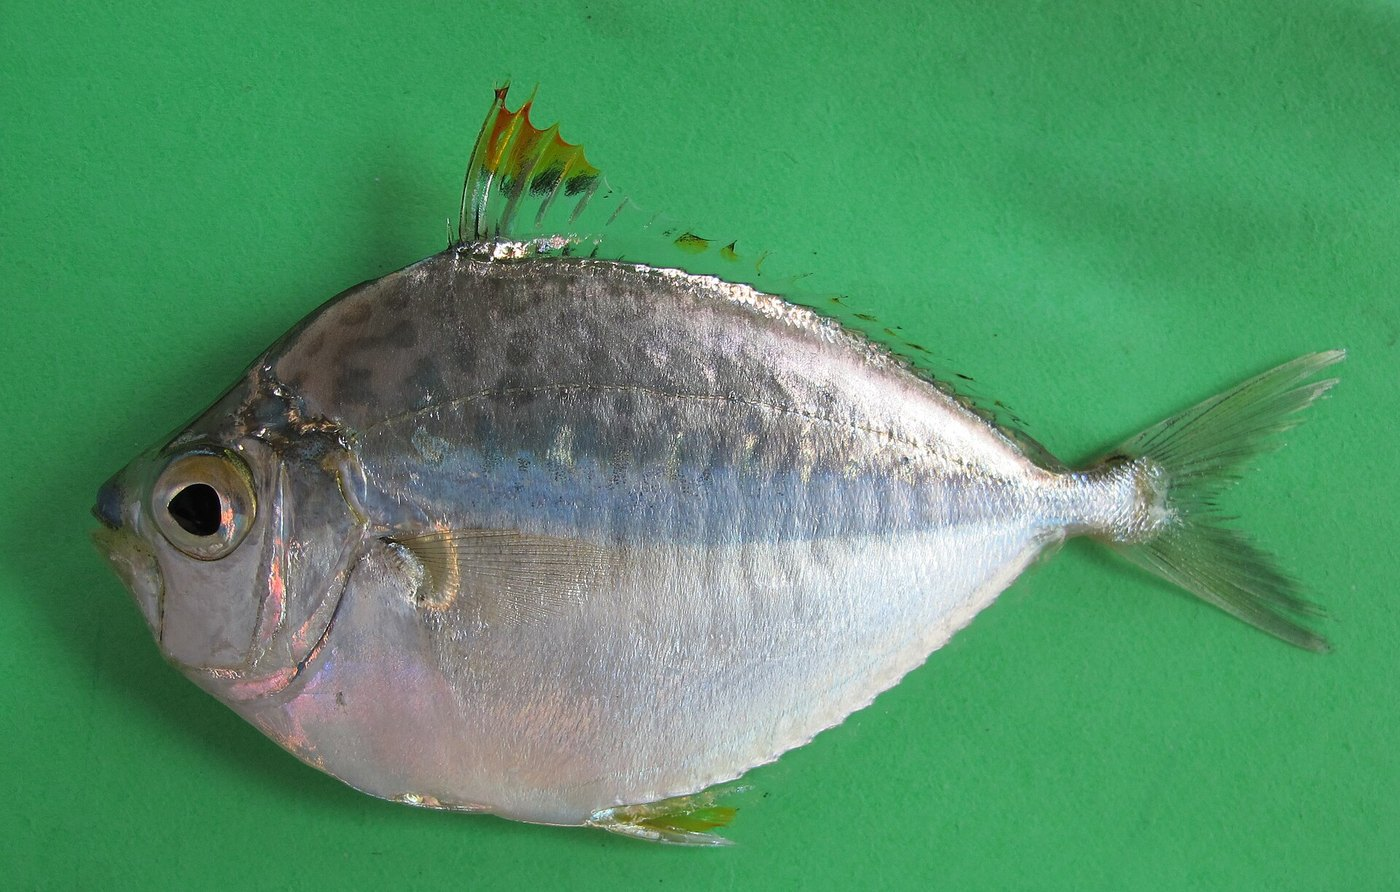
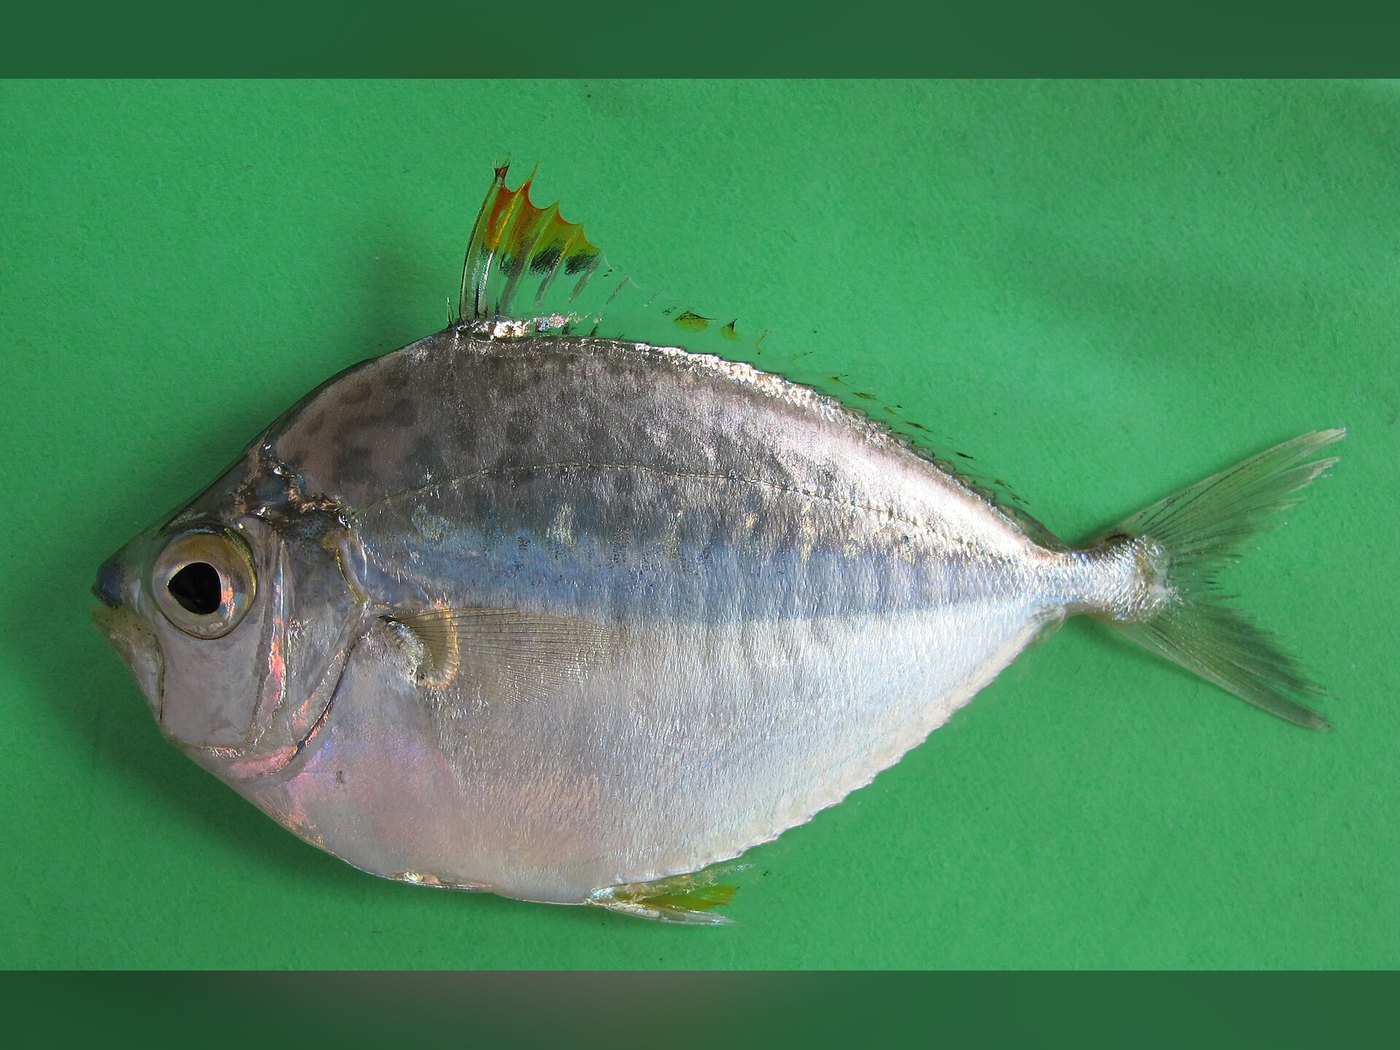
Fill species card with the photo instead of letterboxing

diff --git a/tools/fish_photos.py b/tools/fish_photos.py
@@ -1486,6 +1486,41 @@ def frame_on_fish(img, box):
     return (int(left), int(top), int(left + cw), int(top + ch))
 
 
+def fill_to_card(img):
+    """Pad a photo out to the card's shape using a blurred copy of itself.
+
+    Some fish cannot be framed to 4:3 without cutting a tail off, so those ship
+    whole — which left bars down the sides of the card. Gabriel asked for the
+    container to be filled by the image.
+
+    The two obvious answers are both bad. Cropping to fit takes the fin off,
+    which is the one thing this pipeline refuses to do. A flat colour behind it
+    is still a bar, just a tidier one. Blurring an enlarged copy of the photo
+    behind the photo fills the frame with the picture's own colours and light,
+    so the card reads as one image and nothing is lost.
+    """
+    from PIL import Image, ImageFilter, ImageEnhance
+    w, h = img.width, img.height
+    if abs((w / h) - CARD_ASPECT) < 0.02:
+        return img, False
+
+    if w / h > CARD_ASPECT:
+        cw, ch = w, round(w / CARD_ASPECT)
+    else:
+        ch, cw = h, round(h * CARD_ASPECT)
+
+    # Cover the canvas with the photo, blur it hard enough that no detail reads
+    # as a second fish, and dim it so the real photo stays the subject.
+    scale = max(cw / w, ch / h) * 1.08
+    back = img.resize((max(1, round(w * scale)), max(1, round(h * scale))), Image.LANCZOS)
+    left, top = (back.width - cw) // 2, (back.height - ch) // 2
+    back = back.crop((left, top, left + cw, top + ch))
+    back = back.filter(ImageFilter.GaussianBlur(radius=max(cw, ch) // 28))
+    back = ImageEnhance.Brightness(back).enhance(0.62)
+    back.paste(img, ((cw - w) // 2, (ch - h) // 2))
+    return back, True
+
+
 def manifest_entry(sid, cand):
     return {
         "file": f"assets/photos/{sid}.jpg",
@@ -1641,6 +1676,9 @@ def cmd_build(args):
                 note += " (supplied by hand)"
             fitted[note] = fitted.get(note, 0) + 1
 
+            src, padded = fill_to_card(src)
+            if padded:
+                note += ", filled to frame"
             src.thumbnail((MAX_EDGE, MAX_EDGE), Image.LANCZOS)
             src.save(out, "JPEG", quality=86, optimize=True, progressive=True)
             print(f"  {sid:34} {src.width}x{src.height}  "

diff --git a/README.md b/README.md
@@ -647,9 +647,10 @@ frame, never what to erase from it.
 
 Finding the fish uses `rembg`'s u2net, but only for its mask's bounding box;
 the matting is thrown away. **The fish is never cropped.** If a fish is so long
-that no 4:3 window can hold it inside the photo, the whole frame ships instead
-and the card letterboxes it — 4 of 43 land there. Cutting a tail off to make
-the shape work is the one outcome worth avoiding.
+that no 4:3 window can hold it inside the photo, the whole frame is kept and
+padded out to the card's shape with a *blurred, dimmed copy of the photo
+itself*, so the frame is filled without losing a fin. A flat colour would still
+be a bar; cropping would take the tail. Seven of 67 land there.
 
 Cut-outs were tried first and dropped: they looked consistent in principle and
 were not in practice — halos on some, a fin lost to the matting on others, and
